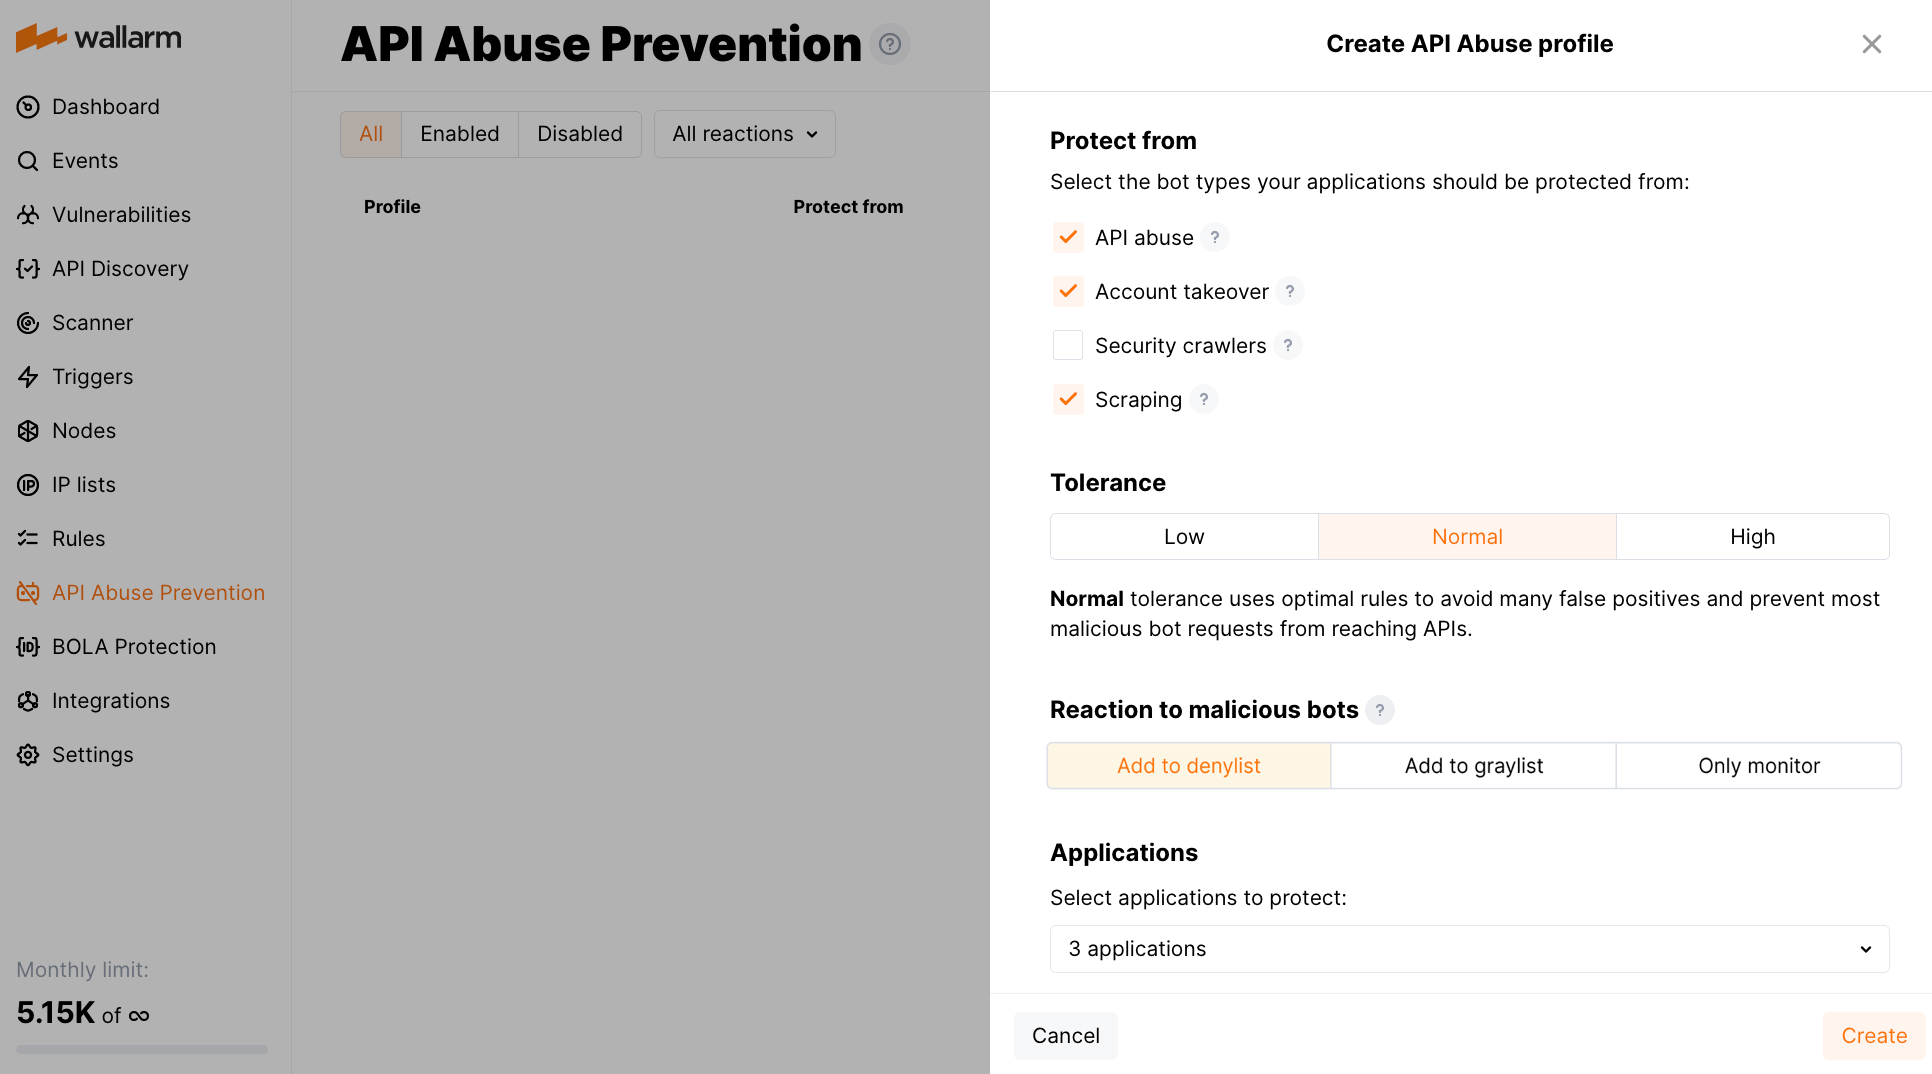
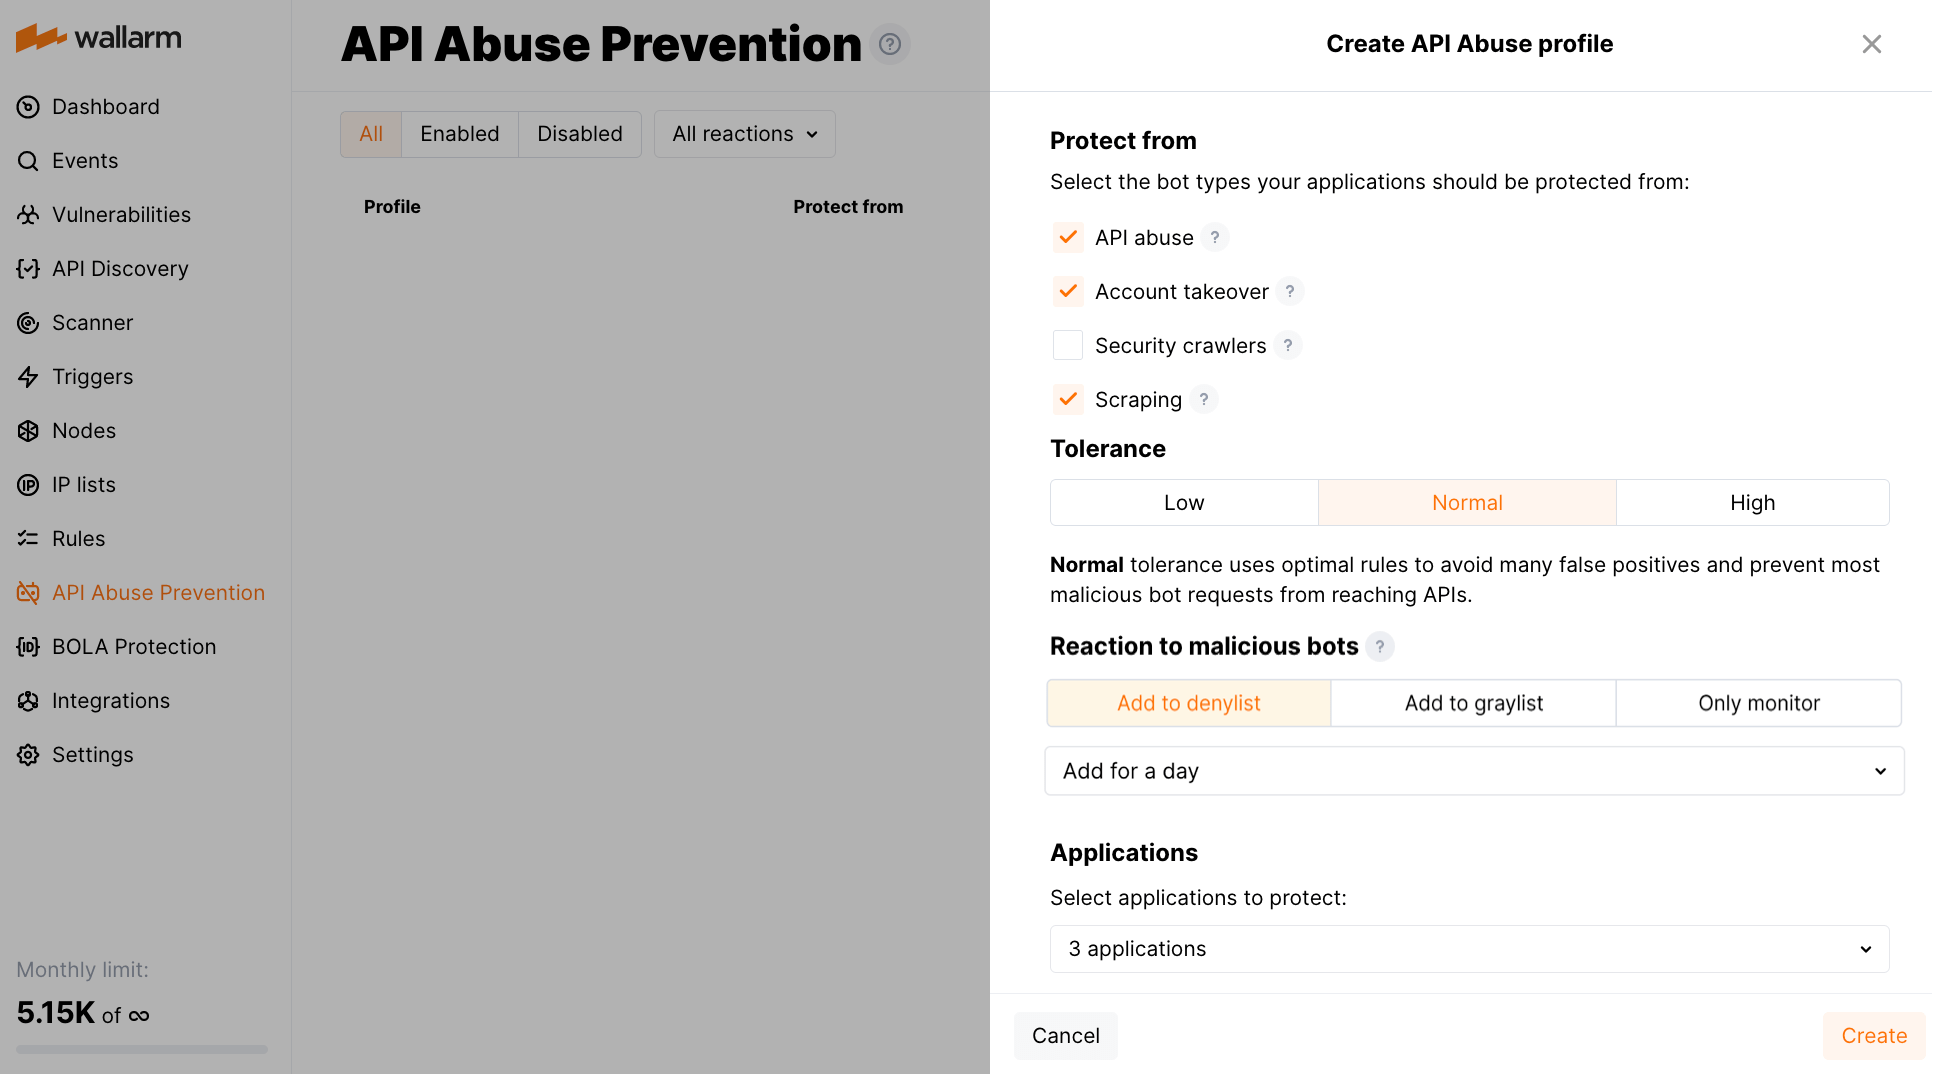
DOCS-2149 API API - time for presence in list

diff --git a/docs/latest/about-wallarm/api-abuse-prevention.md b/docs/latest/about-wallarm/api-abuse-prevention.md
@@ -71,6 +71,9 @@ You can configure API Abuse Prevention to react to malicious bots in one of the 
     * [Attacks of the vpatch type](../user-guides/rules/vpatch-rule.md)
     * [Attacks detected based on regular expressions](../user-guides/rules/regex-rule.md)
 
+    !!! info "Time to be presented in the list"
+        When adding to deny- or graylist, you set the time during which the IP will be in the list. Default value is `Add for a day`.
+
 * **Only monitor**: Wallarm will display the detected bot activity in the [**Events**](../user-guides/events/check-attack.md) section but will add the bot's IP neither to deny- nor to graylist. 
 
     From such events details, you can quickly block the bot with the **Add source IP to denylist** button. The IP is added to the denylist forever, but in the **IP Lists** section you can delete it or change the time of staying in the list.

diff --git a/docs/latest/user-guides/api-abuse-prevention.md b/docs/latest/user-guides/api-abuse-prevention.md
@@ -16,6 +16,7 @@ To create an API abuse profile:
 1. Select [tolerance](../about-wallarm/api-abuse-prevention.md#tolerance) level.
 1. If necessary, in the **Protect from** section, limit the [types of bots](../about-wallarm/api-abuse-prevention.md#automated-threats-blocked-by-api-abuse-prevention) to protect from.
 1. Select the appropriate [reaction to malicious bots](../about-wallarm/api-abuse-prevention.md#reaction-to-malicious-bots).
+1. If reaction is to add to deny- or graylist, set the time during which the IP will be in the list. Default value is `Add for a day`. 
 1. Set name and optionally description.
 
     ![!API Abuse prevention profile](../images/about-wallarm-waf/abi-abuse-prevention/create-api-abuse-prevention.png)
